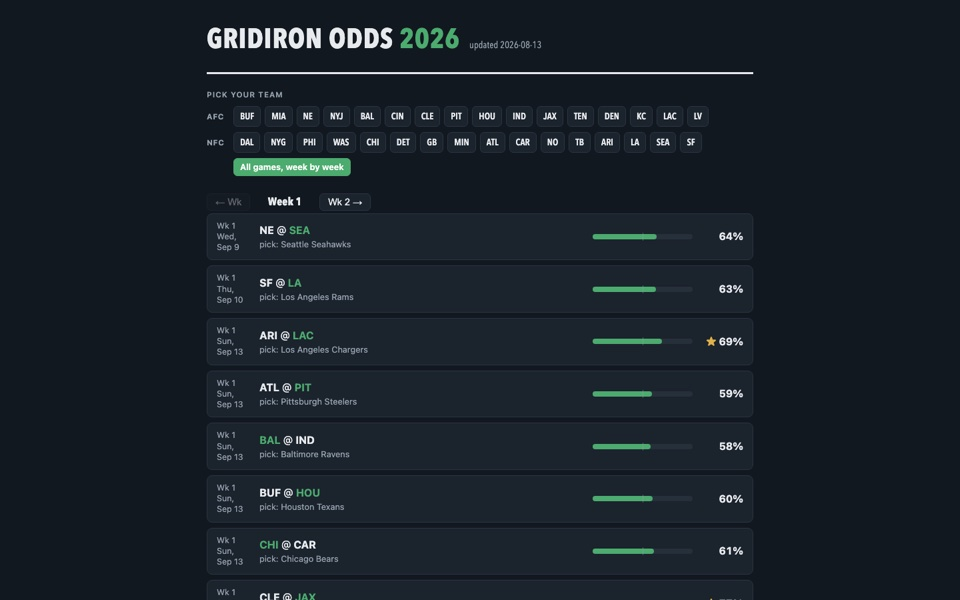
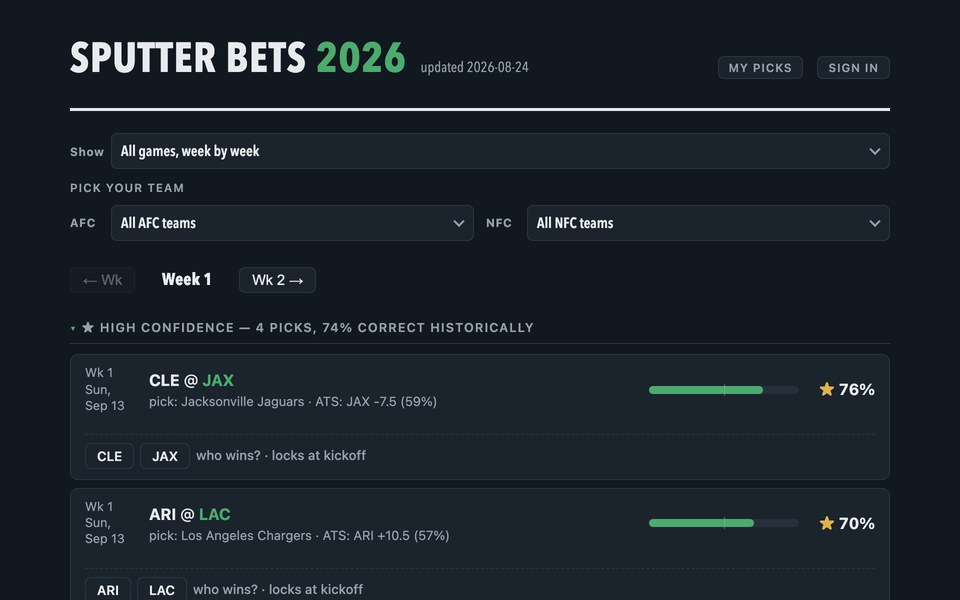
Rename the product to Sputter Bets
The domain, the GCP project and the OAuth consent screen all say Sputter
Bets; only the page still said Gridiron Odds. Renamed across the title,
the masthead, the Open Graph tags, how-it-works, and the share service's
own strings.

og.jpg went with it — it is a screenshot of the page, so it still carried
the old wordmark and the chip picker that the dropdowns replaced. Regrabbed
from the live site at the 960x600 the tags declare.

The two localStorage keys keep their original names on purpose: renaming
them would sign every existing visitor out for a cosmetic change.

Claude-Session: https://claude.ai/code/session_0199HAfoWtPSAhHfe9MR1YbH

diff --git a/web/index.html b/web/index.html
@@ -5,17 +5,17 @@
      /s/<share_id> card, so a shared link previews as whose picks it is. Keep
      the markers, and keep the block self-contained. -->
 <!--OG-->
-<title>Gridiron Odds</title>
+<title>Sputter Bets</title>
 <meta property="og:type" content="website">
-<meta property="og:site_name" content="Gridiron Odds">
-<meta property="og:title" content="Gridiron Odds — NFL Win Probabilities">
+<meta property="og:site_name" content="Sputter Bets">
+<meta property="og:title" content="Sputter Bets — NFL Win Probabilities">
 <meta property="og:description" content="Weekly NFL picks with calibrated win probabilities, why-this-pick reasoning, quarterback grades by quarter and under five minutes, ESPN QBR 1–32, player prop projections, and upset watch — from an Elo + XGBoost model. High-confidence picks hit 74% historically.">
 <meta property="og:url" content="https://sputterbets.com/">
 <meta property="og:image" content="https://sputterbets.com/og.jpg">
 <meta property="og:image:width" content="960">
 <meta property="og:image:height" content="600">
 <meta name="twitter:card" content="summary_large_image">
-<meta name="twitter:title" content="Gridiron Odds — NFL Win Probabilities">
+<meta name="twitter:title" content="Sputter Bets — NFL Win Probabilities">
 <meta name="twitter:image" content="https://sputterbets.com/og.jpg">
 <!--/OG-->
 <style>
@@ -531,7 +531,7 @@
 <div class="wrap">
   <header>
     <div class="masthead">
-      <h1>Gridiron Odds <span class="season" id="seasonLabel"></span></h1>
+      <h1>Sputter Bets <span class="season" id="seasonLabel"></span></h1>
       <span class="tagline display" id="genLabel"></span>
       <button class="authbtn" id="myPicksBtn">My picks</button>
       <button class="authbtn" id="authBtn" hidden></button>
@@ -1387,6 +1387,8 @@
   // Providers the Supabase project actually has credentials for. Apple joins
   // the list once its Services ID exists; an empty list hides sign-in entirely.
   const SB_PROVIDERS = ["google"];
+  // Storage keys keep their original names on purpose: renaming them would
+  // sign every existing visitor out for a cosmetic change.
   const SESS_KEY = "gridiron.session";
   const VERIFIER_KEY = "gridiron.pkce";
 
@@ -1912,7 +1914,7 @@
     });
     const pushes = rows.filter(r => r.verdict === "push").length;
     return '<div class="tiles">' +
-      tile(esc(c.display_name), "picks on Gridiron Odds") +
+      tile(esc(c.display_name), "picks on Sputter Bets") +
       tile(c.pct === null ? "&mdash;" : Number(c.pct).toFixed(1) + "%",
            "of settled picks correct") +
       tile(c.wins + "&ndash;" + c.losses, "won&ndash;lost") +

diff --git a/web/template.html b/web/template.html
@@ -5,17 +5,17 @@
      /s/<share_id> card, so a shared link previews as whose picks it is. Keep
      the markers, and keep the block self-contained. -->
 <!--OG-->
-<title>Gridiron Odds</title>
+<title>Sputter Bets</title>
 <meta property="og:type" content="website">
-<meta property="og:site_name" content="Gridiron Odds">
-<meta property="og:title" content="Gridiron Odds — NFL Win Probabilities">
+<meta property="og:site_name" content="Sputter Bets">
+<meta property="og:title" content="Sputter Bets — NFL Win Probabilities">
 <meta property="og:description" content="Weekly NFL picks with calibrated win probabilities, why-this-pick reasoning, quarterback grades by quarter and under five minutes, ESPN QBR 1–32, player prop projections, and upset watch — from an Elo + XGBoost model. High-confidence picks hit 74% historically.">
 <meta property="og:url" content="https://sputterbets.com/">
 <meta property="og:image" content="https://sputterbets.com/og.jpg">
 <meta property="og:image:width" content="960">
 <meta property="og:image:height" content="600">
 <meta name="twitter:card" content="summary_large_image">
-<meta name="twitter:title" content="Gridiron Odds — NFL Win Probabilities">
+<meta name="twitter:title" content="Sputter Bets — NFL Win Probabilities">
 <meta name="twitter:image" content="https://sputterbets.com/og.jpg">
 <!--/OG-->
 <style>
@@ -531,7 +531,7 @@
 <div class="wrap">
   <header>
     <div class="masthead">
-      <h1>Gridiron Odds <span class="season" id="seasonLabel"></span></h1>
+      <h1>Sputter Bets <span class="season" id="seasonLabel"></span></h1>
       <span class="tagline display" id="genLabel"></span>
       <button class="authbtn" id="myPicksBtn">My picks</button>
       <button class="authbtn" id="authBtn" hidden></button>
@@ -1387,6 +1387,8 @@
   // Providers the Supabase project actually has credentials for. Apple joins
   // the list once its Services ID exists; an empty list hides sign-in entirely.
   const SB_PROVIDERS = ["google"];
+  // Storage keys keep their original names on purpose: renaming them would
+  // sign every existing visitor out for a cosmetic change.
   const SESS_KEY = "gridiron.session";
   const VERIFIER_KEY = "gridiron.pkce";
 
@@ -1912,7 +1914,7 @@
     });
     const pushes = rows.filter(r => r.verdict === "push").length;
     return '<div class="tiles">' +
-      tile(esc(c.display_name), "picks on Gridiron Odds") +
+      tile(esc(c.display_name), "picks on Sputter Bets") +
       tile(c.pct === null ? "&mdash;" : Number(c.pct).toFixed(1) + "%",
            "of settled picks correct") +
       tile(c.wins + "&ndash;" + c.losses, "won&ndash;lost") +

diff --git a/web/how-it-works.html b/web/how-it-works.html
@@ -3,9 +3,9 @@
 <head>
 <meta charset="UTF-8">
 <meta name="viewport" content="width=device-width, initial-scale=1">
-<title>How Gridiron Odds Works</title>
-<meta name="description" content="A plain-English walkthrough of how the Gridiron Odds NFL prediction system is built, from free data to a single-file website.">
-<meta property="og:title" content="How Gridiron Odds Works">
+<title>How Sputter Bets Works</title>
+<meta name="description" content="A plain-English walkthrough of how the Sputter Bets NFL prediction system is built, from free data to a single-file website.">
+<meta property="og:title" content="How Sputter Bets Works">
 <meta property="og:description" content="Free NFL data in, a 40-second morning rebuild, one HTML file out.">
 <meta property="og:type" content="article">
 <meta property="og:url" content="https://sputterbets.com/how-it-works.html">
@@ -229,7 +229,7 @@
 <div class="wrap">
 
   <p class="kicker">sputterbets.com &middot; how it is built</p>
-  <h1>Inside <span class="accent">Gridiron Odds</span></h1>
+  <h1>Inside <span class="accent">Sputter Bets</span></h1>
   <p class="lede">Every morning a computer downloads last night&rsquo;s NFL data,
   re-learns which teams are good, predicts every upcoming game, and rewrites the
   entire website as a single file.</p>
@@ -453,7 +453,7 @@ every 5 min       live scores, 1pm&ndash;midnight ET</pre>
   </section>
 
   <footer>
-    <p><a href="index.html">&larr; Back to the picks</a> &middot; Gridiron Odds.
+    <p><a href="index.html">&larr; Back to the picks</a> &middot; Sputter Bets.
     Predictions are a model&rsquo;s opinion, not advice.</p>
   </footer>
 

diff --git a/server/og_share_server.py b/server/og_share_server.py
@@ -76,7 +76,7 @@ def describe(c: dict) -> tuple:
                      (f" ({float(pct):.0f}%)" if pct is not None else ""))
     else:
         parts.append("nothing settled yet")
-    parts.append("game winners and player over/unders on Gridiron Odds")
+    parts.append("game winners and player over/unders on Sputter Bets")
     return title, " · ".join(parts)
 
 
@@ -86,7 +86,7 @@ def og_block(title: str, description: str, url: str) -> str:
         "<!--OG-->\n"
         f"<title>{html.escape(title)}</title>\n"
         '<meta property="og:type" content="website">\n'
-        '<meta property="og:site_name" content="Gridiron Odds">\n'
+        '<meta property="og:site_name" content="Sputter Bets">\n'
         f'<meta property="og:title" content="{t}">\n'
         f'<meta property="og:description" content="{d}">\n'
         f'<meta property="og:url" content="{html.escape(url, quote=True)}">\n'
@@ -139,7 +139,7 @@ class Handler(BaseHTTPRequestHandler):
         if c:
             title, desc = describe(c)
         else:
-            title = "Gridiron Odds — a shared card"
+            title = "Sputter Bets — a shared card"
             desc = ("Somebody's game and player-prop picks. Nothing is staked "
                     "on any of it.")
         block = og_block(title, desc, f"{SITE}/s/{share_id}")
